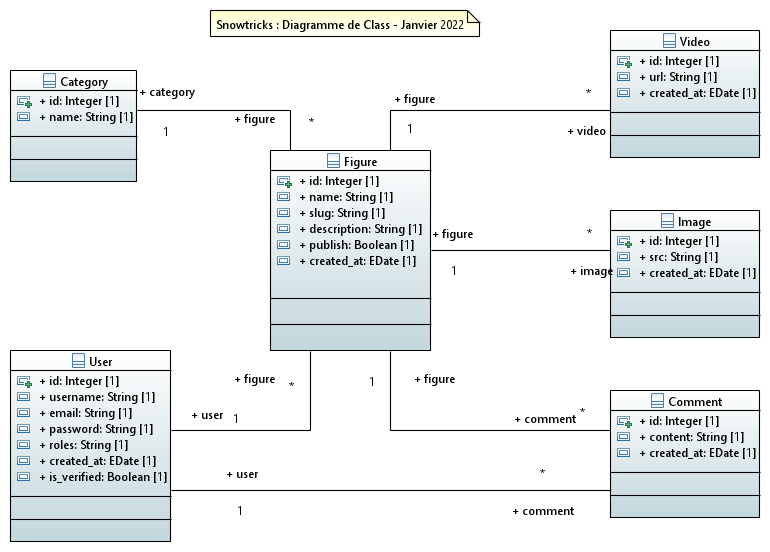
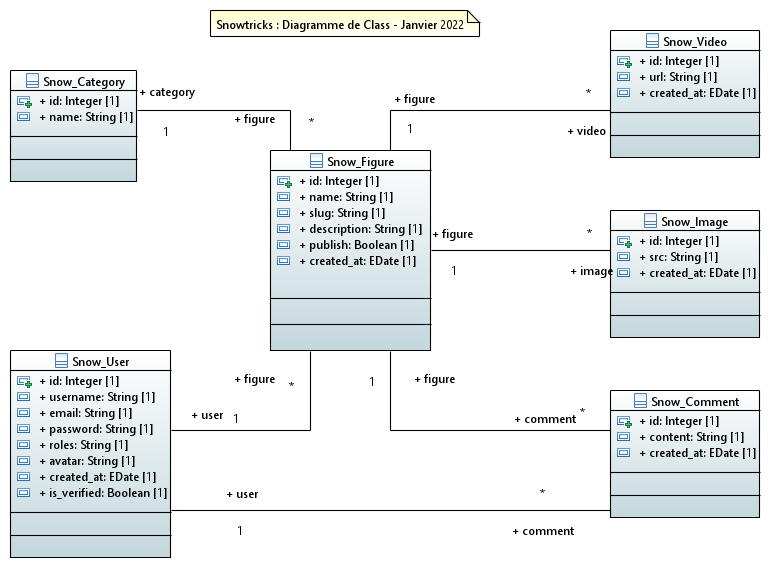
Diagram and database update

diff --git a/migrations/Version20220202090626.php b/migrations/Version20220202090626.php
@@ -1,0 +1,37 @@
+<?php
+
+declare(strict_types=1);
+
+namespace DoctrineMigrations;
+
+use Doctrine\DBAL\Schema\Schema;
+use Doctrine\Migrations\AbstractMigration;
+
+/**
+ * Auto-generated Migration: Please modify to your needs!
+ */
+final class Version20220202090626 extends AbstractMigration
+{
+    public function getDescription(): string
+    {
+        return '';
+    }
+
+    public function up(Schema $schema): void
+    {
+        // this up() migration is auto-generated, please modify it to your needs
+        $this->addSql('ALTER TABLE snow_comment CHANGE snow_figure_id snow_figure_id INT NOT NULL, CHANGE snow_user_id snow_user_id INT NOT NULL');
+        $this->addSql('ALTER TABLE snow_image CHANGE snow_figure_id snow_figure_id INT NOT NULL');
+        $this->addSql('ALTER TABLE snow_user ADD avatar VARCHAR(255) DEFAULT NULL');
+        $this->addSql('ALTER TABLE snow_video CHANGE snow_figure_id snow_figure_id INT NOT NULL');
+    }
+
+    public function down(Schema $schema): void
+    {
+        // this down() migration is auto-generated, please modify it to your needs
+        $this->addSql('ALTER TABLE snow_comment CHANGE snow_figure_id snow_figure_id INT DEFAULT NULL, CHANGE snow_user_id snow_user_id INT DEFAULT NULL');
+        $this->addSql('ALTER TABLE snow_image CHANGE snow_figure_id snow_figure_id INT DEFAULT NULL');
+        $this->addSql('ALTER TABLE snow_user DROP avatar');
+        $this->addSql('ALTER TABLE snow_video CHANGE snow_figure_id snow_figure_id INT DEFAULT NULL');
+    }
+}

diff --git a/src/Entity/SnowUser.php b/src/Entity/SnowUser.php
@@ -44,6 +44,9 @@ class SnowUser implements UserInterface, PasswordAuthenticatedUserInterface
     #[ORM\OneToMany(mappedBy: 'snowUser', targetEntity: SnowComment::class, orphanRemoval: true)]
     private $comment;
 
+    #[ORM\Column(type: 'string', length: 255, nullable: true)]
+    private $avatar;
+
     public function __construct()
     {
         $this->figure = new ArrayCollection();
@@ -212,6 +215,18 @@ class SnowUser implements UserInterface, PasswordAuthenticatedUserInterface
                 $comment->setSnowUser(null);
             }
         }
+
+        return $this;
+    }
+
+    public function getAvatar(): ?string
+    {
+        return $this->avatar;
+    }
+
+    public function setAvatar(?string $avatar): self
+    {
+        $this->avatar = $avatar;
 
         return $this;
     }

diff --git a/src/Entity/SnowComment.php b/src/Entity/SnowComment.php
@@ -20,9 +20,11 @@ class SnowComment
     private $createdAt;
 
     #[ORM\ManyToOne(targetEntity: SnowFigure::class, inversedBy: 'Comment')]
+    #[ORM\JoinColumn(nullable: false)]
     private $snowFigure;
 
     #[ORM\ManyToOne(targetEntity: SnowUser::class, inversedBy: 'comment')]
+    #[ORM\JoinColumn(nullable: false)]
     private $snowUser;
 
     public function getId(): ?int

diff --git a/src/Entity/SnowImage.php b/src/Entity/SnowImage.php
@@ -20,7 +20,7 @@ class SnowImage
     private $createdAt;
 
     #[ORM\ManyToOne(targetEntity: SnowFigure::class, inversedBy: 'image')]
-    #[ORM\JoinColumn(nullable: true)]
+    #[ORM\JoinColumn(nullable: false)]
     private $snowFigure;
 
     public function getId(): ?int

diff --git a/src/Entity/SnowVideo.php b/src/Entity/SnowVideo.php
@@ -20,7 +20,7 @@ class SnowVideo
     private $createdAt;
 
     #[ORM\ManyToOne(targetEntity: SnowFigure::class, inversedBy: 'video')]
-    #[ORM\JoinColumn(nullable: true)]
+    #[ORM\JoinColumn(nullable: false)]
     private $snowFigure;
 
     public function getId(): ?int
